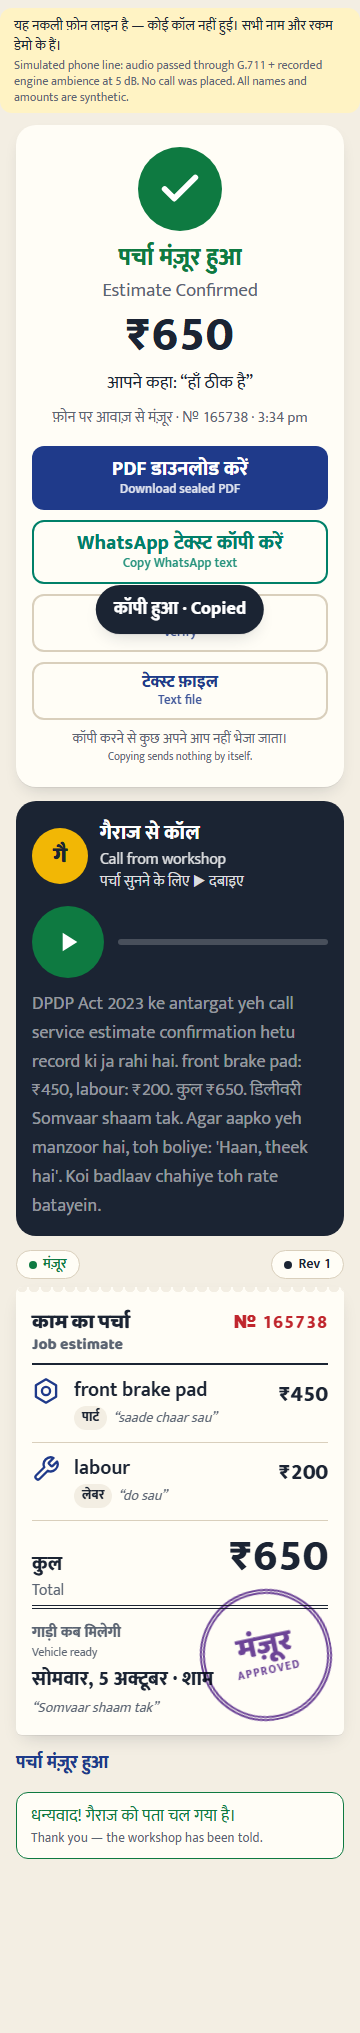
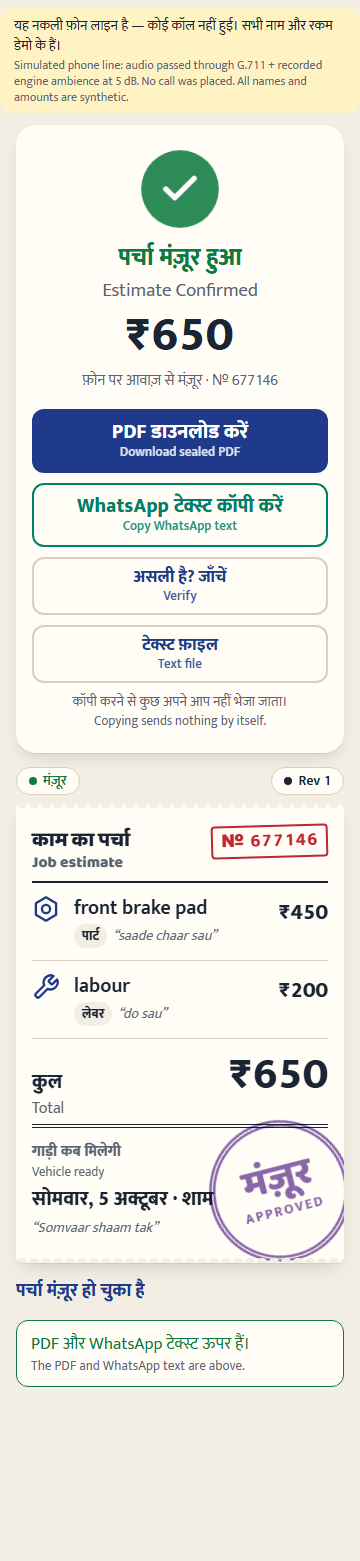
style(ui): design polish pass - no side stripes, bill-book slip, breathing mic, themed browser surfaces

diff --git a/src/parcha/static/parcha.css b/src/parcha/static/parcha.css
@@ -9,17 +9,20 @@
   --shadow-paper: 0 1px 0 rgba(27,36,51,.06), 0 8px 18px -8px rgba(27,36,51,.22);
   --shadow-dock: 0 -6px 16px rgba(27,36,51,.10);
   --tap: 48px; --tap-primary: 64px; --mic: 96px; --dock-h: 150px;
-  --ease: cubic-bezier(.22,.8,.24,1); --spring: cubic-bezier(.34,1.56,.64,1);
+  --ease: cubic-bezier(.22,.8,.24,1); --slam: cubic-bezier(.16,1,.3,1);
 }
 *, *::before, *::after { box-sizing: border-box; }
 html { -webkit-text-size-adjust: 100%; }
 body { margin: 0; background: var(--counter); color: var(--ink); font: 400 18px/1.6 var(--font); font-variant-numeric: tabular-nums; }
 [hidden] { display: none !important; }
+::selection { background: var(--haldi); color: var(--ink); }
+input, textarea { caret-color: var(--neela); accent-color: var(--hara); }
+html { scrollbar-color: var(--rule) var(--counter); }
 h1, h2, p { margin: 0; }
 .page { min-height: 100dvh; padding-bottom: calc(var(--dock-h) + env(safe-area-inset-bottom)); }
 .page--verify, .page--stage { padding-bottom: 24px; }
 .sheet { max-width: 480px; margin: 0 auto; padding: 12px 16px 24px; display: grid; gap: 14px; }
-.en { display: block; font-size: .78em; font-weight: 400; line-height: 1.35; color: var(--ink-muted); }
+.en { display: block; font-size: max(13px, .78em); font-weight: 400; line-height: 1.35; color: var(--ink-muted); }
 .btn .en, .mic .en, .call .en, .verdict .en { color: inherit; opacity: .85; }
 :focus-visible { outline: 3px solid var(--neela); outline-offset: 3px; }
 .topbar { max-width: 480px; margin: 0 auto; padding: 12px 16px 0; display: flex; align-items: center; justify-content: space-between; gap: 8px; }
@@ -38,7 +41,7 @@ h1, h2, p { margin: 0; }
 .stepper { list-style: none; margin: 0; padding: 0; display: grid; grid-template-columns: repeat(5, 1fr); gap: 4px; counter-reset: step; }
 .stepper li { position: relative; padding-top: 30px; text-align: center; font-weight: 700; font-size: 15px; line-height: 1.2; color: var(--ink-muted); }
 .stepper li::before { counter-increment: step; content: counter(step); position: absolute; top: 0; left: 50%; translate: -50% 0; width: 26px; height: 26px; border-radius: 50%; display: grid; place-items: center; background: var(--paper); border: 2px solid var(--rule); font-size: 14px; }
-.stepper li .en { font-size: 11px; }
+.stepper li .en { font-size: 12px; }
 .stepper li[data-state="current"] { color: var(--ink); }
 .stepper li[data-state="current"]::before { background: var(--neela); border-color: var(--neela); color: #fff; }
 .stepper li[data-state="done"]::before { content: "✓"; background: var(--hara); border-color: var(--hara); color: #fff; }
@@ -49,9 +52,11 @@ h1, h2, p { margin: 0; }
 .slip { position: relative; overflow: hidden; background: var(--paper); border-radius: var(--r-card); box-shadow: var(--shadow-paper); padding: 22px 16px 16px; }
 .slip--duplicate { background: var(--paper-pink); }
 .slip::before { content: ""; position: absolute; inset: 0 0 auto 0; height: 10px; background: radial-gradient(circle at 6px 0, var(--counter) 5px, transparent 5.5px) 0 0 / 12px 10px repeat-x; }
+.slip::after { content: ""; position: absolute; inset: auto 0 0 0; height: 10px; background: radial-gradient(circle at 6px 10px, var(--counter) 5px, transparent 5.5px) 0 0 / 12px 10px repeat-x; }
+.slip { padding-bottom: 24px; }
 .slip__head { display: flex; justify-content: space-between; align-items: baseline; gap: 8px; padding-bottom: 8px; border-bottom: 2px solid var(--ink); }
 .slip__title { font: 800 20px/1.2 var(--font-display); }
-.slip__serial { font-weight: 800; font-size: 18px; color: var(--serial); letter-spacing: .04em; white-space: nowrap; }
+.slip__serial { font-weight: 800; font-size: 18px; color: var(--serial); letter-spacing: .06em; white-space: nowrap; padding: 0 8px; border: 2px solid var(--serial); border-radius: 4px; transform: rotate(-1.5deg); }
 .slip__rows { list-style: none; margin: 0; padding: 0; }
 .row { display: grid; grid-template-columns: 32px minmax(0, 1fr) auto; gap: 10px; align-items: start; padding: 12px 0; border-bottom: 1px solid var(--rule); }
 .row--empty { display: block; color: var(--ink-muted); text-align: center; }
@@ -64,7 +69,7 @@ h1, h2, p { margin: 0; }
 .row__was { display: block; font-size: 15px; font-weight: 600; color: var(--ink-muted); text-decoration: line-through 2px var(--sindoor); }
 .row--changed { animation: flash 1.4s var(--ease); }
 @keyframes flash { 0%, 40% { background: var(--paper-yellow); } 100% { background: transparent; } }
-.row--flagged { margin: 0 -16px; padding: 12px 16px 12px 10px; background: var(--paper-yellow); border-left: 6px solid var(--haldi); }
+.row--flagged { margin: 6px -8px; padding: 12px 8px; background: var(--paper-yellow); border-radius: 10px; border-bottom-color: transparent; box-shadow: 0 0 0 2px var(--haldi); }
 .row__ask { grid-column: 2 / -1; display: flex; flex-wrap: wrap; align-items: center; gap: 8px 12px; margin-top: 6px; }
 .row__question { font-weight: 700; font-size: 18px; }
 .abstain-reason { font-size: 15px; font-weight: 600; color: var(--amber); }
@@ -78,24 +83,29 @@ h1, h2, p { margin: 0; }
 .slip__k { font-size: 15px; font-weight: 700; color: var(--ink-muted); }
 .slip__delivery strong { font-size: 20px; }
 .slip__delivery q { font-size: 14px; font-style: italic; color: var(--ink-muted); }
-.stamp { position: absolute; right: 12px; bottom: 14px; width: 132px; height: 132px; border-radius: 50%; border: 5px double var(--jamuni); color: var(--jamuni); display: grid; place-content: center; text-align: center; font: 800 30px/1 var(--font-display); transform: rotate(-12deg); mix-blend-mode: multiply; opacity: .9; pointer-events: none; animation: stamp .35s var(--spring) both; }
+.stamp { position: absolute; right: 8px; bottom: 16px; width: 112px; height: 112px; border-radius: 50%; border: 5px double var(--jamuni); color: var(--jamuni); display: grid; place-content: center; text-align: center; font: 800 30px/1 var(--font-display); transform: rotate(-12deg); mix-blend-mode: multiply; opacity: .9; pointer-events: none; animation: stamp .35s var(--slam) both; }
 .stamp small { display: block; margin-top: 4px; font: 700 11px/1.2 var(--font); letter-spacing: .12em; }
 @keyframes stamp { from { transform: scale(2.4) rotate(-24deg); opacity: 0; } to { transform: scale(1) rotate(-12deg); opacity: .9; } }
-.empty { padding: 28px 16px; text-align: center; background: var(--paper); border: 2px dashed var(--rule); border-radius: var(--r-card); display: grid; gap: 8px; }
+.empty { position: relative; padding: 28px 16px 120px; text-align: center; background: var(--paper); border-radius: var(--r-card); box-shadow: var(--shadow-paper); display: grid; gap: 8px; }
+.empty::after { content: ""; position: absolute; inset: auto 16px 18px; height: 84px; background: repeating-linear-gradient(transparent 0 27px, var(--rule) 27px 28px); }
 .empty__title { font-weight: 800; font-size: 20px; }
 .empty__example { font-style: italic; color: var(--ink-muted); }
-.flagbar { display: flex; align-items: center; gap: 8px; padding: 10px 14px; border-radius: var(--r-btn); background: var(--paper-yellow); border-left: 6px solid var(--haldi); font-weight: 700; }
+.flagbar { display: flex; align-items: center; gap: 10px; padding: 10px 14px; border-radius: var(--r-btn); background: var(--paper-yellow); box-shadow: 0 0 0 2px var(--haldi); font-weight: 700; }
+.flagbar::before { content: "!"; flex: none; width: 28px; height: 28px; border-radius: 50%; display: grid; place-items: center; background: var(--haldi); font: 800 18px/1 var(--font); }
 .dock { position: fixed; inset: auto 0 0 0; z-index: 10; background: var(--paper); box-shadow: var(--shadow-dock); border-radius: var(--r-sheet) var(--r-sheet) 0 0; padding: 12px 16px calc(12px + env(safe-area-inset-bottom)); }
+.dock::before { content: ""; display: block; width: 40px; height: 4px; margin: -4px auto 8px; border-radius: 2px; background: var(--rule); }
 .dock__inner { max-width: 480px; margin: 0 auto; display: grid; gap: 10px; }
 .dock__row { display: flex; align-items: center; gap: 14px; }
 .dock__status { min-width: 0; display: grid; gap: 2px; }
 .dock__title { font-weight: 800; font-size: 22px; line-height: 1.2; }
 .timer { font-weight: 700; font-size: 18px; color: var(--sindoor); min-height: 1.2em; }
 .meter { height: 8px; border-radius: 4px; background: var(--counter); overflow: hidden; }
-.meter > span { display: block; height: 100%; width: calc(var(--level, 0) * 100%); background: var(--hara); transition: width 80ms linear; }
+.meter > span { display: block; height: 100%; width: 100%; transform: scaleX(var(--level, 0)); transform-origin: left; background: var(--hara); transition: transform 80ms linear; }
 .mic { position: relative; flex: none; width: var(--mic); height: var(--mic); border-radius: 50%; border: 3px solid var(--ink); background: var(--haldi); color: var(--ink); display: grid; place-items: center; cursor: pointer; touch-action: manipulation; }
 .mic svg { width: 44px; height: 44px; }
 .mic:active:not(:disabled) { transform: scale(.96); }
+.dock[data-mic="idle"] .mic:not(:disabled):not(.mic--stop) { animation: breathe 2.6s var(--ease) infinite; }
+@keyframes breathe { 0%, 100% { box-shadow: 0 0 0 0 rgba(242,183,5,.55); } 50% { box-shadow: 0 0 0 14px rgba(242,183,5,0); } }
 .mic:disabled { background: var(--counter); border-color: var(--rule); color: var(--ink-muted); cursor: not-allowed; }
 .mic--stop { background: var(--sindoor); border-color: var(--sindoor); color: #fff; box-shadow: 0 0 0 calc(var(--level, 0) * 18px) rgba(179,38,30,.25); transition: box-shadow 80ms linear; }
 .mic--stop::before, .mic--stop::after { content: ""; position: absolute; inset: -6px; border-radius: 50%; border: 3px solid var(--sindoor); opacity: .5; animation: ring 1.6s var(--ease) infinite; }
@@ -109,6 +119,7 @@ h1, h2, p { margin: 0; }
 .btn--change { background: var(--paper); color: var(--amber); border-color: var(--amber); }
 .btn--wa { background: var(--paper); color: var(--wa); border-color: var(--wa); }
 .btn--ghost { min-height: var(--tap); background: transparent; color: var(--neela); border-color: var(--rule); font-size: 17px; }
+.btn:active:not(:disabled), .reask:active { transform: scale(.98); }
 .btn:disabled { background: var(--counter); color: var(--ink-muted); border-color: var(--rule); cursor: not-allowed; }
 .share { display: grid; gap: 10px; padding: 16px; background: var(--paper); border-radius: var(--r-card); box-shadow: var(--shadow-paper); }
 .share__title { font-weight: 800; font-size: 20px; }
@@ -116,7 +127,7 @@ h1, h2, p { margin: 0; }
 .toast { position: fixed; left: 50%; bottom: calc(var(--dock-h) + 16px); translate: -50% 0; z-index: 20; padding: 10px 18px; border-radius: var(--r-pill); background: var(--ink); color: #fff; font-weight: 700; box-shadow: var(--shadow-paper); }
 .disclosure { max-width: 448px; margin: 8px auto 0; padding: 8px 14px; border-radius: var(--r-btn); background: var(--paper-yellow); font-size: 14px; line-height: 1.45; }
 .disclosure .en { font-size: 12px; }
-.call { display: grid; gap: 12px; padding: 16px; border-radius: var(--r-sheet); background: var(--ink); color: #fff; }
+.call { display: grid; gap: 12px; padding: 16px; border-radius: var(--r-sheet); background: linear-gradient(160deg, #26324a, var(--ink) 60%); color: #fff; box-shadow: 0 14px 28px -14px rgba(27,36,51,.55); }
 .call__who { display: flex; align-items: center; gap: 12px; }
 .call__avatar { position: relative; flex: none; width: 56px; height: 56px; border-radius: 50%; background: var(--haldi); color: var(--ink); display: grid; place-items: center; font: 800 22px/1 var(--font-display); }
 .call[data-call="talking"] .call__avatar::after { content: ""; position: absolute; inset: -6px; border-radius: 50%; border: 3px solid var(--haldi); animation: ring 1.6s var(--ease) infinite; }
@@ -128,7 +139,7 @@ h1, h2, p { margin: 0; }
 .play:disabled { background: rgba(255,255,255,.2); cursor: not-allowed; }
 .call__progress { flex: 1; height: 6px; border-radius: 3px; background: rgba(255,255,255,.2); overflow: hidden; }
 .call__progress > span { display: block; width: 0; height: 100%; background: var(--haldi); }
-.call__caption { font-size: 18px; line-height: 1.6; color: rgba(255,255,255,.55); overflow-wrap: anywhere; }
+.call__caption { font-size: 20px; line-height: 1.7; color: rgba(255,255,255,.55); overflow-wrap: anywhere; }
 .call__caption .said { color: #fff; }
 .consent { padding: 10px 14px; background: var(--paper); border: 1px solid var(--rule); border-radius: var(--r-btn); }
 .consent__row { display: flex; align-items: flex-start; gap: 12px; min-height: var(--tap); font-weight: 600; cursor: pointer; }
@@ -142,7 +153,7 @@ h1, h2, p { margin: 0; }
 .fallback h2 { font-size: 20px; }
 .fallback__actions { display: grid; grid-template-columns: 1fr 1fr; gap: 10px; }
 .receipt { display: grid; justify-items: center; gap: 8px; padding: 22px 16px; text-align: center; background: var(--paper); border-radius: var(--r-sheet); box-shadow: var(--shadow-paper); }
-.receipt__tick { width: 84px; height: 84px; border-radius: 50%; background: var(--hara); color: #fff; display: grid; place-items: center; animation: pop .45s var(--spring) both; }
+.receipt__tick { width: 84px; height: 84px; border-radius: 50%; background: var(--hara); color: #fff; display: grid; place-items: center; animation: pop .45s var(--slam) both; }
 .receipt__tick svg { width: 46px; height: 46px; }
 @keyframes pop { from { transform: scale(.4); opacity: 0; } to { transform: scale(1); opacity: 1; } }
 .receipt__title { font-size: 24px; font-weight: 800; color: var(--hara); }
@@ -151,6 +162,7 @@ h1, h2, p { margin: 0; }
 .receipt__actions { display: grid; gap: 10px; width: 100%; margin-top: 8px; }
 .verdict { display: grid; justify-items: center; gap: 4px; padding: 22px 16px; border-radius: var(--r-sheet); color: #fff; text-align: center; }
 .verdict--ok { background: var(--hara); } .verdict--pending { background: var(--amber); }
+.verdict { outline: 2px dashed rgba(255,255,255,.45); outline-offset: -10px; }
 .verdict__icon { width: 64px; height: 64px; border-radius: 50%; background: rgba(255,255,255,.2); display: grid; place-items: center; font-size: 36px; font-weight: 800; }
 .verdict__title { font-size: 28px; font-weight: 800; } .verdict__meta { font-weight: 700; }
 .section-title { font-size: 20px; font-weight: 800; }
@@ -164,11 +176,14 @@ h1, h2, p { margin: 0; }
 .kv { display: grid; gap: 2px; margin: 8px 0 12px; } .kv dt { margin-top: 8px; font-size: 14px; font-weight: 700; color: var(--ink-muted); } .kv dd { margin: 0; overflow-wrap: anywhere; }
 .hash { padding: 6px 8px; border-radius: 6px; background: var(--counter); font: 600 13px/1.4 ui-monospace, Consolas, monospace; word-break: break-all; }
 .actions { display: grid; gap: 10px; }
-.stage__head { max-width: 1100px; margin: 0 auto; padding: 20px 16px 8px; text-align: center; display: grid; gap: 4px; }
+.stage__head { max-width: 1100px; margin: 0 auto; padding: 22px 16px 8px; text-align: center; display: grid; gap: 4px; }
+.stage__head .brand { font-size: 34px; }
 .stage__head p { font-size: 20px; font-weight: 700; }
 .stage { display: flex; flex-wrap: wrap; justify-content: center; gap: 32px; padding: 8px 16px 24px; }
 .phone { margin: 0; display: grid; justify-items: center; gap: 8px; }
 .phone figcaption { font-weight: 800; font-size: 20px; }
+.phone figcaption { padding: 2px 16px; border-radius: var(--r-pill); background: var(--ink); color: #fff; }
+.phone figcaption .en { display: inline; margin-left: 6px; color: inherit; opacity: .8; }
 .phone iframe { width: 360px; height: min(760px, calc(100dvh - 190px)); min-height: 560px; border: 10px solid var(--ink); border-radius: 36px; background: var(--counter); box-shadow: var(--shadow-paper); }
 .card-head { display: flex; align-items: center; justify-content: space-between; gap: 8px; margin-bottom: 8px; }
 @media (min-width: 768px) { body { font-size: 19px; } }

diff --git a/src/parcha/static/ui.js b/src/parcha/static/ui.js
@@ -300,18 +300,16 @@
   function chime() {
     const AC = window.AudioContext || window.webkitAudioContext;
     if (!AC) return;
-    const ctx = new AC();
-    const now = ctx.currentTime;
-    [[880, 0], [1320, 0.16]].forEach(([freq, at]) => {
-      const osc = ctx.createOscillator();
-      const gain = ctx.createGain();
+    const ctx = new AC(), t = ctx.currentTime;
+    [880, 1320].forEach((freq, n) => {
+      const osc = ctx.createOscillator(), gain = ctx.createGain(), at = t + n * 0.16;
       osc.frequency.value = freq;
-      gain.gain.setValueAtTime(0.0001, now + at);
-      gain.gain.exponentialRampToValueAtTime(0.3, now + at + 0.02);
-      gain.gain.exponentialRampToValueAtTime(0.0001, now + at + 0.35);
+      gain.gain.setValueAtTime(0.0001, at);
+      gain.gain.exponentialRampToValueAtTime(0.3, at + 0.02);
+      gain.gain.exponentialRampToValueAtTime(0.0001, at + 0.35);
       osc.connect(gain).connect(ctx.destination);
-      osc.start(now + at);
-      osc.stop(now + at + 0.4);
+      osc.start(at);
+      osc.stop(at + 0.4);
     });
     setTimeout(() => ctx.close(), 900);
   }

diff --git a/src/parcha/templates/customer.html b/src/parcha/templates/customer.html
@@ -23,7 +23,7 @@
     <p class="fineprint">कॉपी करने से कुछ अपने आप नहीं भेजा जाता।<span class="en">Copying sends nothing by itself.</span></p>
   </section>
 
-  <section class="call" id="audio-panel" data-call="idle" aria-label="गैराज से कॉल">
+  <section class="call" id="audio-panel" data-call="idle" aria-label="गैराज से कॉल"{% if status == "confirmed" %} hidden{% endif %}>
     <div class="call__who">
       <div class="call__avatar" aria-hidden="true">गै</div>
       <div>

diff --git a/src/parcha/static/app.js b/src/parcha/static/app.js
@@ -216,6 +216,7 @@ function renderCustomerCard(data, opts = {}) {
   badge.className = `pill ${sealed ? "pill--ok" : data.status === "awaiting_reply" ? "pill--wait" : "pill--warn"}`;
   $("card-revision-badge").textContent = `Rev ${data.revision}`;
   $("confirmed-banner").hidden = !sealed;
+  $("audio-panel").hidden = sealed;
   $("receipt-total").textContent = UI.formatRupees(data.total_paise);
   $("fallback-banner").hidden = data.status !== "fallback_ready";
   $("dock").hidden = sealed || data.status === "fallback_ready";

diff --git a/aidlc-docs/efforts/011-ui-digital-parcha-build/construction.md b/aidlc-docs/efforts/011-ui-digital-parcha-build/construction.md
@@ -15,3 +15,12 @@ Presentation helpers, payload contract, e2e seam, design system and verify page,
 
 ## Checks
 Offline suite and `-m e2e` run in this worktree. `tests/test_early_gates.py` has 3 live-mock failures that also fail on `main` before these changes. Not done: manual check on a real Android phone over LAN; tabular-digit check of Google-served Mukta by eye only.
+
+## Design polish pass (impeccable critique)
+- Flagged rows and the flag bar no longer use a thick left border; they use a full tint with a ring and a "!" marker.
+- Slip got a bottom perforation and a boxed, tilted printed serial; the empty state is a blank bill-book page.
+- Idle mic breathes (one authored motion, off under reduced motion); dock has a grab handle.
+- English sub-lines have a 13px floor; selection, caret, scrollbar are themed.
+- Call card is hidden once the parcha is sealed (it showed an audio error on a finished session).
+- Stamp easing changed from overshoot to ease-out; level meter animates transform instead of width.
+- Size budget raised from 60 KB to 64 KB (63.3 KB used). Still no framework or bundler.
